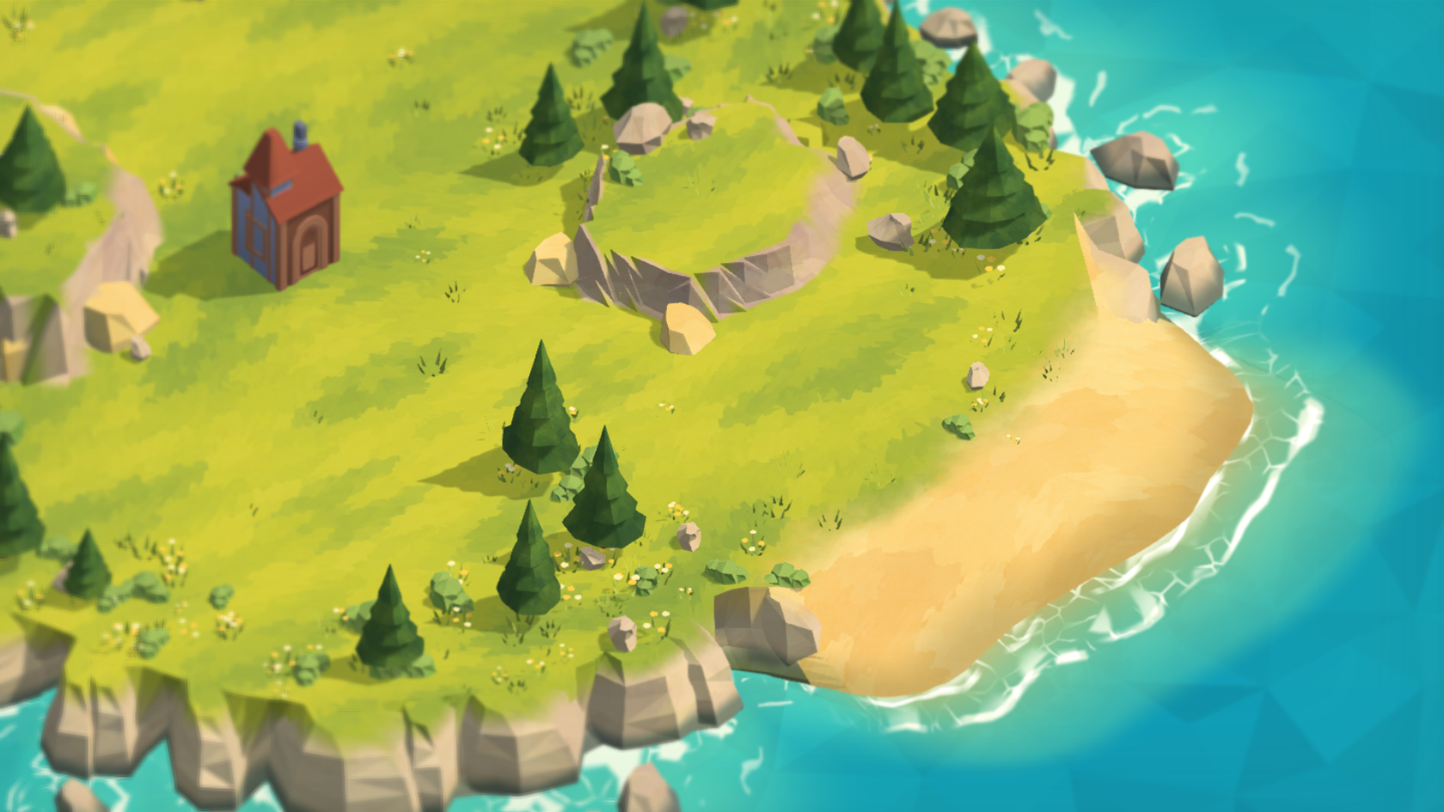
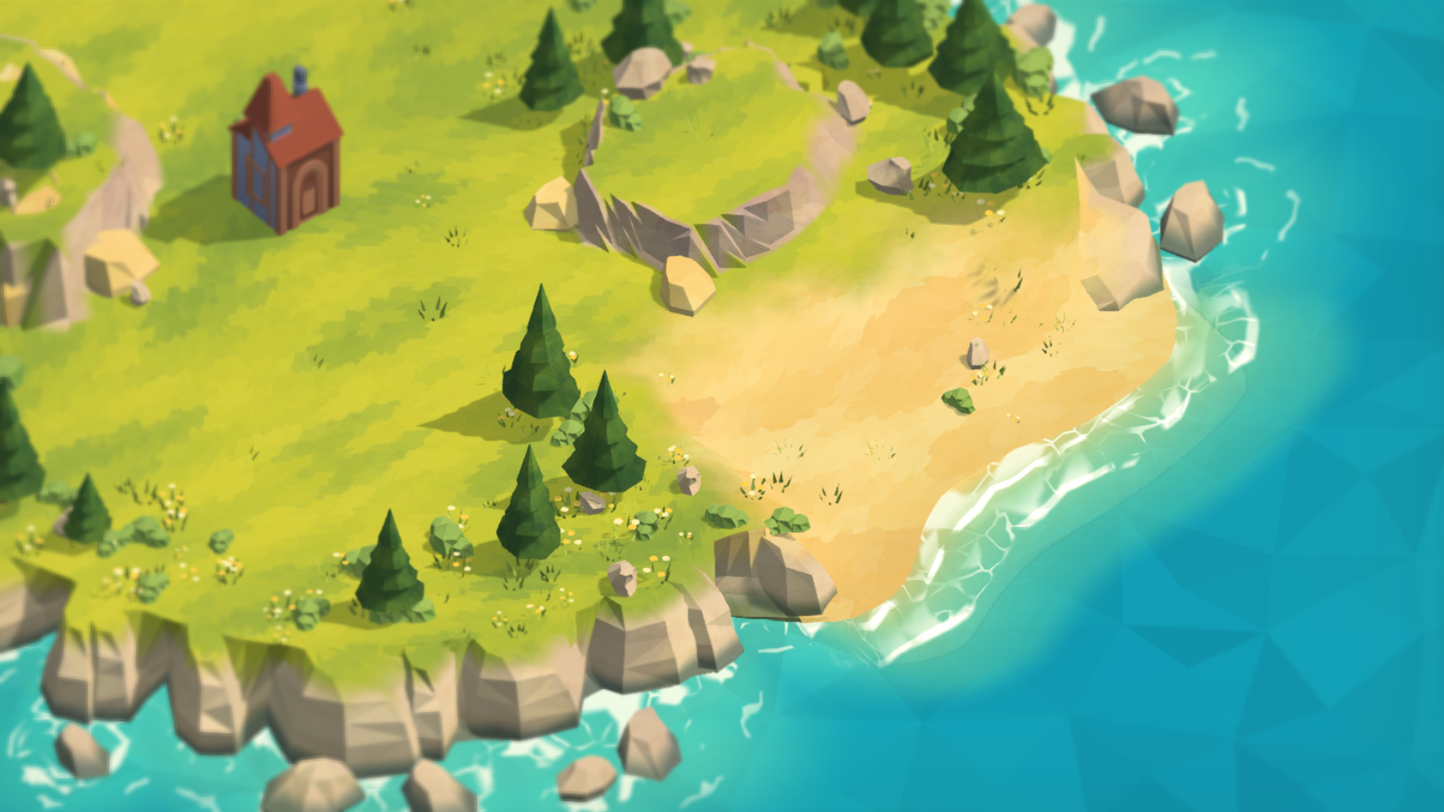
Widen dry beaches and align picking with coastal slopes

diff --git a/src/scene/cliff-layout.ts b/src/scene/cliff-layout.ts
@@ -4,7 +4,7 @@ import { cliffRockGeometry, type CliffSpec } from './cliffs.js';
 
 export const COAST_SEGMENTS = 192;
 
-import { beachInfluence, coastalElevation } from './coast-height.js';
+import { beachInfluence, beachInset, coastalElevation } from './coast-height.js';
 export { beachInfluence } from './coast-height.js';
 
 function random(seed: number) {
@@ -220,8 +220,9 @@ function cliffContours(seed: number, buildings: Building[]): CliffContours {
       // The whole cove shoulder is a transition, not an abrupt switch from
       // an upright cliff to a full-width sand fan at one angular threshold.
       const blend = Math.max(0, Math.min(1, sand));
-      const beachBlend = blend * blend * (3 - 2 * blend);
-      contours.land[i] = land * (1 - beachBlend) + coast * beachBlend;
+      const beachBlend = blend;
+      const sandEdge = coast - beachInset(theta, seed);
+      contours.land[i] = land * (1 - beachBlend) + sandEdge * beachBlend;
       // Each height follows the actual boulder section instead of extruding
       // the grass outline. Broad shoulders and recessed joints now have depth.
       // The bounded offset keeps the mass upright rather than splaying sideways.
@@ -232,7 +233,9 @@ function cliffContours(seed: number, buildings: Building[]): CliffContours {
         // form the visible faces. Recess it so it cannot flicker over them.
         const recess = band === 0 || band === 3 ? 0 : 0.1;
         const rock = band === 0 ? land : land + offset - recess;
-        const beach = coast + [0, 0.34, 0.7, 1, 2.1][band] * 1.29;
+        // Keep the wet edge closer to the island; the low sandy apron gives
+        // us a gentler slope without a wide bulge projecting into the bay.
+        const beach = sandEdge + [0, 0.36, 0.7, 1.02, 1.8][band];
         contours.bands[band][i] = rock * (1 - beachBlend) + beach * beachBlend;
       }
       contours.bands[0][i] = contours.land[i];
@@ -301,13 +304,36 @@ export function coastSection(
   buildings: Building[] = [],
 ): [number, number] {
   const contours = cliffContours(seed, buildings);
-  const depth = [0, -0.22, -0.47, -0.68, -1.15][band];
+  const sand = beachInfluence(angle, seed);
+  const depth = [0, -0.22, -0.47, -0.68, -1.15][band] - [0, 0.32, 0.14, 0, 0][band] * sand;
   const radius = sampleContour(angle, contours.bands[band]);
-  const rise = coastalElevation(
+  const rise = terrainHeight(
     6 + Math.cos(angle) * radius,
     6 + Math.sin(angle) * radius,
     seed,
     buildings,
   );
   return [radius, depth + rise * [1, 0, 0, 0, 0][band]];
+}
+
+/** Picking must follow the visible shore, not extend the inland heightfield
+ * over the sea where it can create an invisible ridge in front of a beach. */
+export function coastalSurfaceHeight(
+  x: number,
+  z: number,
+  seed: number,
+  buildings: Building[] = [],
+) {
+  const angle = Math.atan2(z - 6, x - 6);
+  const radius = Math.hypot(x - 6, z - 6);
+  if (radius <= cliffLandRadius(angle, seed)) return terrainHeight(x, z, seed, buildings);
+  let height = -1.15;
+  let previous = coastSection(angle, 0, seed, buildings);
+  for (let band = 1; band < 5; band++) {
+    const next = coastSection(angle, band, seed, buildings);
+    const t = (radius - previous[0]) / (next[0] - previous[0]);
+    if (t >= 0 && t <= 1) height = Math.max(height, previous[1] + t * (next[1] - previous[1]));
+    previous = next;
+  }
+  return height;
 }

diff --git a/src/scene/coast-height.ts b/src/scene/coast-height.ts
@@ -15,12 +15,34 @@ export function beachInfluence(angle: number, seed: number) {
   return influence < 0.0001 ? 0 : influence;
 }
 
+/** A shallow cove cut into the island, instead of an outward sandy bulge. */
+export function beachInset(angle: number, seed: number) {
+  const shift = 0.1 * Math.sin(seed);
+  const bell = (center: number, width: number) => {
+    const t = Math.min(1, Math.abs(wrapAngle(angle - center)) / width);
+    return Math.cos((t * Math.PI) / 2) ** 2;
+  };
+  return 0.85 * Math.max(bell(1.1 + shift, 0.57), bell(3.85 - shift, 0.55));
+}
+
+function sandHeight(offset: number) {
+  const radii = [0, 0.36, 0.7, 1.02, 1.8];
+  const heights = [-0.48, -0.54, -0.61, -0.68, -1.15];
+  for (let i = 1; i < radii.length; i++) {
+    if (offset <= radii[i]) {
+      const t = Math.max(0, (offset - radii[i - 1]) / (radii[i] - radii[i - 1]));
+      return heights[i - 1] + t * (heights[i] - heights[i - 1]);
+    }
+  }
+  return heights[heights.length - 1];
+}
+
 /** Shared coastal rise: tall headlands, low sandy coves and a level dock approach.
  * Coordinates stay unchanged; trees and buildings sit on the same heightfield. */
 export function coastalElevation(x: number, z: number, seed: number, buildings: Building[] = []) {
   const angle = Math.atan2(z - 6, x - 6);
   const radius = Math.hypot(x - 6, z - 6);
-  const edge = createWorld(seed).coastRadius(angle);
+  const edge = createWorld(seed).coastRadius(angle) - beachInset(angle, seed);
   const headland =
     0.46 + 0.11 * Math.sin(angle * 3 + (seed % 31)) + 0.07 * Math.cos(angle * 7 - (seed % 17));
   const rise = 0.18 + (headland - 0.18) * smooth((radius - edge + 2.1) / 1.8);
@@ -32,5 +54,12 @@ export function coastalElevation(x: number, z: number, seed: number, buildings: 
       smooth((Math.hypot(x - port.x - 0.5, z - port.z - 0.5) - 1.5) / 1.4),
     );
   }
-  return rise * beach * approach;
+  // A beach meets the sea on a low apron, not on the raised grass rim.
+  // Ease the descent inland so the sand does not form a convex mound.
+  const openBeach = smooth((beachInfluence(angle, seed) - 0.72) / 0.28);
+  // The last inland metre stays almost level and dry. The ascent begins
+  // behind it, so widening the beach does not push its waterline seaward.
+  const apron = 0.48 * openBeach * smooth((radius - edge + 4) / 3);
+  const outerSand = openBeach * (sandHeight(Math.max(0, radius - edge)) + 0.48);
+  return (rise * beach - apron + outerSand) * approach;
 }

diff --git a/src/scene/environment.ts b/src/scene/environment.ts
@@ -3,6 +3,7 @@ import { buildingCells, createWorld, type Building } from '../domain/index.js';
 import nature from '../../.generated/nature-models.json';
 import type { Board } from './types.js';
 import { terrainContourPoints, terrainHeight } from './terrain.js';
+import { beachInset } from './coast-height.js';
 import {
   beachInfluence,
   coastSection,
@@ -364,11 +365,18 @@ export function environmentGeometry(board: Board, buildings: Building[], spread 
       // Tide shading is evaluated per fragment, so its edge can cross a face.
       const pigment = stone ? rockPigment(point[0], Math.max(0, point[1]), point[2], color) : color;
       const angle = Math.atan2(point[2] - 6, point[0] - 6);
-      const inland = world.coastRadius(angle) - Math.hypot(point[0] - 6, point[2] - 6);
+      const inland =
+        world.coastRadius(angle) -
+        beachInset(angle, world.seed) -
+        Math.hypot(point[0] - 6, point[2] - 6);
       const duneWidth =
-        0.8 + 0.3 * Math.sin(angle * 13 + (world.seed % 19)) + 0.13 * Math.cos(angle * 23);
+        1.7 + 0.25 * Math.sin(angle * 13 + (world.seed % 19)) + 0.13 * Math.cos(angle * 23);
+      // Measure from the actual cove, not the old island outline. Keep a
+      // broad dry sand strip before the painted transition into meadow.
       const sand =
-        surface === 2 ? beachInfluence(angle, world.seed) * clamp(1 - inland / duneWidth, 0, 1) : 0;
+        surface === 2
+          ? beachInfluence(angle, world.seed) * clamp(1 - (inland - 1.35) / duneWidth, 0, 1)
+          : 0;
       let covering = sand;
       if (surface === 2) {
         // One continuous material crosses triangle boundaries: 0 is exposed

diff --git a/src/scene/terrain.ts b/src/scene/terrain.ts
@@ -1,5 +1,5 @@
 import { buildingCells, createWorld, type Building } from '../domain/index.js';
-import { coastalElevation } from './coast-height.js';
+import { beachInfluence, beachInset, coastalElevation } from './coast-height.js';
 
 const smooth = (value: number) => {
   const t = Math.max(0, Math.min(1, value));
@@ -117,8 +117,14 @@ function naturalHeight(x: number, z: number, seed: number) {
   }, 0);
   const rolling = 0.085 + 0.055 * Math.sin(x * 0.81 + phase) * Math.cos(z * 0.69 - phase);
   const distance = Math.hypot(x - 6, z - 6);
-  const coast = createWorld(seed).coastRadius(Math.atan2(z - 6, x - 6));
-  return (hills + rolling) * smooth((coast - distance - 0.65) / 0.95);
+  const angle = Math.atan2(z - 6, x - 6);
+  const coast = createWorld(seed).coastRadius(angle);
+  // Fade small inland relief into the lowered cove before the sand begins.
+  // Picking, buildings and decoration share this same continuous surface.
+  const sandEdge = coast - beachInset(angle, seed);
+  const openBeach = smooth((beachInfluence(angle, seed) - 0.72) / 0.28);
+  const relief = 1 - openBeach * (1 - smooth((sandEdge - distance - 1) / 1.7));
+  return (hills + rolling) * smooth((coast - distance - 0.65) / 0.95) * relief;
 }
 
 /** Одна горизонтальная площадка для всего здания, включая многоклеточные шаблоны. */

diff --git a/src/scene/index.ts b/src/scene/index.ts
@@ -23,7 +23,7 @@ import { createLighting } from './lighting.js';
 import { createOcean } from './ocean.js';
 import { createLens } from './lens.js';
 import { PaintedScenery } from './painted-material.js';
-import { terrainHeight } from './terrain.js';
+import { coastalSurfaceHeight } from './cliff-layout.js';
 import { sceneCoordinate, boardCoordinate, ISLAND_SPREAD } from './space.js';
 import { createCityLife } from './life.js';
 import { harborLayout } from './harbor.js';
@@ -114,7 +114,8 @@ export function createScene({
     dirty = true,
     frameId = 0;
   const upperGround = new Plane(0, 1, 0, -4);
-  const lowerGround = new Plane(0, 1, 0, 0.02);
+  // The sandy apron sits below zero but above the sea; picking must reach it.
+  const lowerGround = new Plane(0, 1, 0, 1.2);
   const signal = new AbortController();
   surface.addEventListener(
     'webglcontextlost',
@@ -183,7 +184,7 @@ export function createScene({
     return { x: p.x, y: p.y };
   }
   function heightAt(x: number, z: number) {
-    return terrainHeight(x, z, board.seed ?? 0, model?.buildings ?? []);
+    return coastalSurfaceHeight(x, z, board.seed ?? 0, model?.buildings ?? []);
   }
   function project(x: number, y: number, z: number) {
     return projectWorld(sceneCoordinate(x), y + heightAt(x, z), sceneCoordinate(z));

diff --git a/src/scene/painted-material.ts b/src/scene/painted-material.ts
@@ -95,7 +95,7 @@ vec3 sandPaint(vec3 p) {
   float tide=-.49+(wash-.5)*.12;
   float wet=1.0-smoothstep(tide-.20,tide+.13,p.y);
   // Damp sand is a large, quiet ochre wash, not a speckled brown outline.
-  return mix(sand,sand*vec3(.77,.80,.78),wet*.75);
+  return mix(sand,sand*vec3(.91,.94,.91),wet*.55);
 }`,
       CUSTOM_FRAGMENT_UPDATE_DIFFUSE: `
 if (vPaintSurface.x > .5) {

diff --git a/docs/decisions.md b/docs/decisions.md
@@ -306,4 +306,10 @@
 
 **Решение:** широкая плавная маска бухты снижает высоту и глыбы на плечах; локальное усреднение радиусов убирает игольчатые вырезы, не сглаживая скальные мысы. Покрытие поверхности определяется уклоном и расстоянием до рельефа. Дополнительный сгенерированный атлас даёт крупные охристые/лишайниковые мазки и маску перехода. Камень использует три проекции.
 
-**Цена:** один дополнительный встроенный атлас и семплер без нового прохода. Окружение seed 123456789: 23 085 треугольников. Сохранения и логическая география прежние; старый проход случайной расстановки декора сохраняет свою исходную маску.
+**Цена:** один дополнительный встроенный атлас и семплер без нового прохода. Окружение seed 123456789: 22 867 треугольников. Сохранения и логическая география прежние; старый проход случайной расстановки декора сохраняет свою исходную маску.
+
+**Профиль пляжа:** центр бухты отступает внутрь острова до 0,85 единицы. Сухая кромка понижена до −0,48 (вода −0,68), следующие уровни −0,54/−0,61. Последний метр суши почти ровный, подъём растянут на четыре единицы. Подводный склон занимает 0,78 вместо 1,58. Ватерлиния сохраняет вогнутый контур.
+
+**Покрытие и согласованность:** маска песка считает расстояние от фактической кромки бухты; 1,35 единицы полностью покрыты песком до широкой переходной зоны. Высота земли, объектов и выбор участка согласованы; луч выбора опускается до −1,2. Регрессии проверяют сухую ширину, высоту над водой, уклон, короткое подводное продолжение и общий шов. Тип поверхности определяется её меткой, а не знаком высоты.
+
+За пределами верхнего контура поиск поверхности интерполирует реальные береговые сечения (`coastalSurfaceHeight`), а не продолжает `terrainHeight`. Добавлен регрессионный seed 1530508826: невидимое продолжение земли раньше перехватывало клик при размещении причала.

diff --git a/docs/models.md b/docs/models.md
@@ -112,4 +112,6 @@ GLB можно импортировать в Blender; JSON содержит те
 
 У бухт расширены плавные плечи; глыбы у песка ниже, резкие радиальные вырезы сглажены только в переходных секторах. Каменные мысы и два низких пляжа сохранены. Трава/камень/песок смешиваются по уклону и расстоянию до поверхности с крупной рисованной маской, а не выбором одного материала для целого треугольника. Трёхмерная проекция камня убирает растянутые полосы. Последовательность старой расстановки декора сохранена отдельно от новой формы берега.
 
-Актуальная статистика seed 123456789 без построек: окружение 23 085 треугольников / 69 255 вершин; основа берега 2 784 / 8 352, 35 береговых глыб по 84 треугольника. Исходные GLB не менялись. Новый атлас добавляет один семплер, но не отдельный проход отрисовки. Проверка через игровой WebGL; художественная итерация остаётся открытой для оценки владельца.
+Актуальная статистика seed 123456789 без построек: окружение 22 867 треугольников / 68 601 вершина; основа берега 2 784 / 8 352, 35 береговых глыб по 84 треугольника. Исходные GLB не менялись. Новый атлас добавляет один семплер, но не отдельный проход отрисовки. Проверка через игровой WebGL; художественная итерация остаётся открытой для оценки владельца.
+
+Середина каждой бухты отступает внутрь острова до 0,85 логической единицы. Кромка песка находится на −0,48 при воде −0,68. Последний метр суши почти горизонтален, подъём распределён на четыре единицы. Полное песчаное покрытие продолжается на 1,35 единицы вглубь суши, затем переходит в траву широкими мазками. Подводный склон сокращён с 1,58 до 0,78; ватерлиния не выдвигается дальше в море. Выбор участка учитывает низкий рельеф до −1,2. Превью выше снято в игре после этих правок.

diff --git a/docs/architecture.md b/docs/architecture.md
@@ -156,3 +156,9 @@ Dev-сервер и сохранение мастерской вызывают `
 
 
 Атлас `shore-transition-atlas.png` встроен рядом с основным атласом природы. Разметка UV.x 8/9 отделяет травяные и песчаные короны скал от свободных камней. UV.y земли хранит непрерывное покрытие камень/луг/песок по локальному склону, а у корон — покрытие по расстоянию до рельефа. Маска мазков смешивает материалы в мировых координатах. `cliff-layout.ts` сглаживает только плечи бухт; `coast-height.ts` плавно снижает их высоту. Домен размещения и формат сохранения не меняются.
+
+`beachInset` задаёт общий плавный вырез песчаной бухты. `coastalElevation` и `naturalHeight` снижают берег и затухают рельеф перед ним; `coastSection` берёт верхнюю высоту из полного `terrainHeight`, включая этот переход. Нижняя граница поиска пересечения указателя опущена до −1,2, чтобы выбирать участки низкого песка.
+
+Сухой песок отмеряется относительно `coastRadius − beachInset`, а не прежней границы острова. Полоса полного покрытия шириной 1,35 продолжается в рисованный переход к лугу. Общий heightfield оставляет последний метр суши почти ровным и распределяет подъём на четыре единицы; профиль песка под водой заканчивается через 0,78 после ватерлинии. Геометрия, декор и выбор участка используют согласованные высоты.
+
+`coastalSurfaceHeight` использует песчаные/скальные сечения за верхним контуром острова. Проекция и пересечение указателя не экстраполируют наземный рельеф над водой: невидимый гребень больше не перехватывает клик в бухте.

diff --git a/docs/requirements.md b/docs/requirements.md
@@ -120,3 +120,9 @@
 - Текстурный атлас встроен в HTML. Низкое качество уменьшает снимки отражения и дна; остановка анимации и пауза сохраняют прежнее поведение.
 
 - Плечи двух песчаных бухт плавно снижаются от скальных мысов; узкие радиальные клинья у краёв пляжа не допускаются. Между лугом, камнем и песком используются крупные рисованные переходы, согласованные на общих вершинах. Каменные грани и мокрая тёмная кромка сохраняются.
+
+- Пляж имеет длинный пологий подъём: песок у воды расположен низко, подъём продолжается вглубь острова, а мокрая окраска не выглядит тёмным крутым уступом.
+
+- Контур песчаного участка в середине отступает внутрь острова и образует неглубокую бухту. Размещение зданий и указатель продолжают учитывать низкий песчаный рельеф.
+
+- Между травой и водой должна быть широкая сухая песчаная полоса с почти ровной нижней частью. Увеличивать её в сторону острова, сохраняя вогнутый контур бухты; подводное продолжение короче сухой части.
